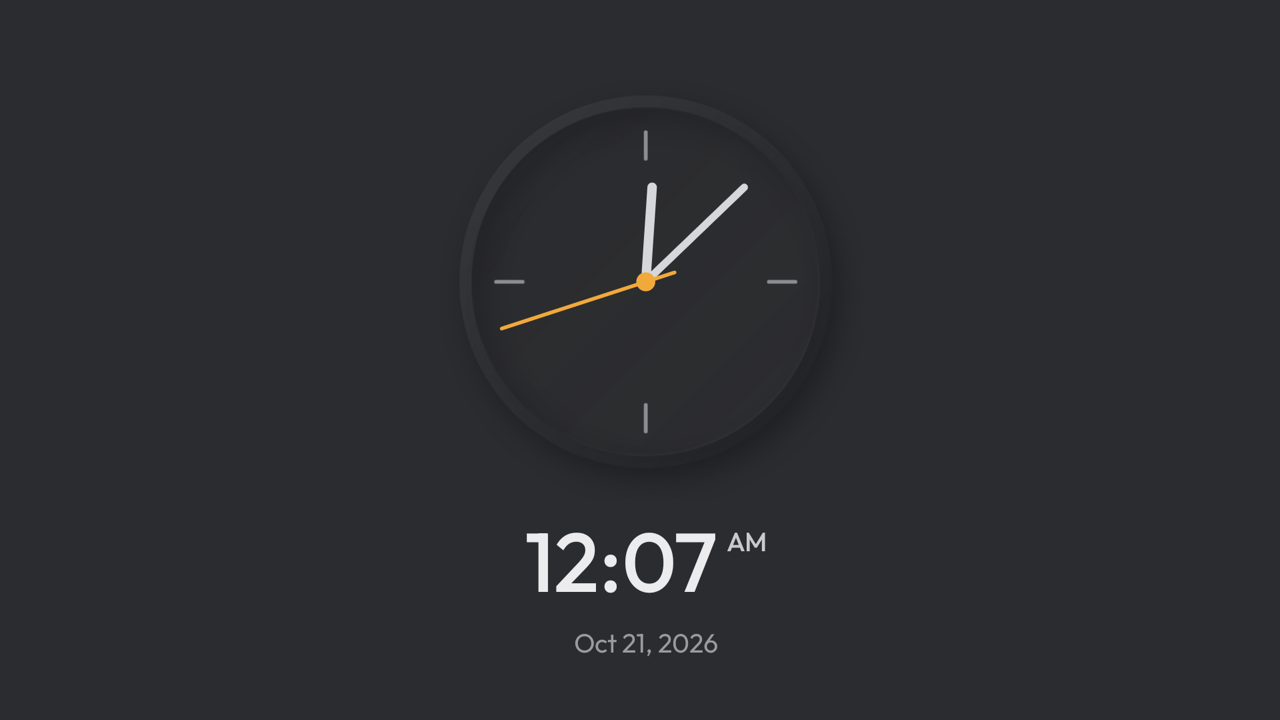
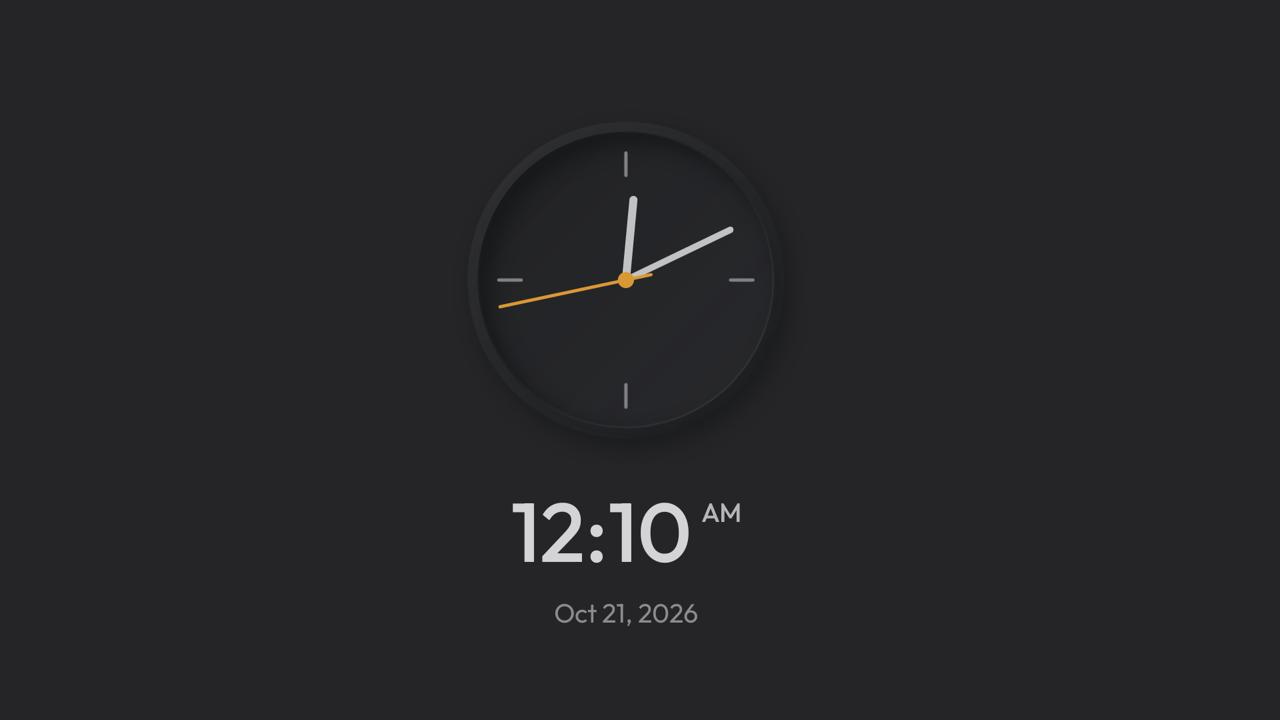
Clock screensaver: a smaller, darker dial with the face pressed in fully
The dial is 15% smaller, keeping its gap to the time. The face's recess
is back to full strength, and every colour is a little darker: the
background and dial by 15%, the marks, hands and text by 10%.

diff --git a/launcher/app/src/main/java/com/gathin/tvhome/ClockFace.java b/launcher/app/src/main/java/com/gathin/tvhome/ClockFace.java
@@ -25,7 +25,7 @@ import java.util.Calendar;
 final class ClockFace extends View {
 
     private static final float RIM = 98.4f, FACE = 92f;
-    private static final int HAND = 0xFFD6D7DA, SECOND = 0xFFF2A93B, TICK = 0xFF8E8F94;
+    private static final int HAND = 0xFFC1C2C4, SECOND = 0xFFDA9835, TICK = 0xFF808185;
 
     private final Paint hands = new Paint(Paint.ANTI_ALIAS_FLAG);
     private final Paint bitmapPaint = new Paint(Paint.FILTER_BITMAP_FLAG);
@@ -71,6 +71,11 @@ final class ClockFace extends View {
     }
 
     /** Sizes the clock so its rim is {@code rimRadius} pixels across from the centre. */
+    /** The room left around the rim for its shadow, in pixels. */
+    float shadowRoom() {
+        return pad;
+    }
+
     void setRimRadius(float rimRadius) {
         unit = rimRadius / RIM;
         pad = 16f * unit;
@@ -142,17 +147,17 @@ final class ClockFace extends View {
         Paint p = new Paint(Paint.ANTI_ALIAS_FLAG);
 
         // A soft shadow under the rim, a little down and to the right.
-        p.setColor(0xCC1C1D20);
+        p.setColor(0xCC18191B);
         p.setMaskFilter(new BlurMaskFilter(12f * unit, BlurMaskFilter.Blur.NORMAL));
         canvas.drawCircle(c + 4f * unit, c + 6f * unit, rim, p);
         p.setMaskFilter(null);
 
         // The rim stands out: lit at the top left, shaded at the bottom right.
-        p.setShader(diagonal(c, rim, 0xFF3C3D41, 0xFF2E2F32, 0xFF1F2023));
+        p.setShader(diagonal(c, rim, 0xFF333437, 0xFF27282A, 0xFF1A1B1E));
         canvas.drawCircle(c, c, rim, p);
 
-        // The face is pressed in: the other way round, and gently.
-        p.setShader(diagonal(c, face, 0xFF28292C, 0xFF2C2D30, 0xFF2F3033));
+        // The face is pressed in: lit the other way round.
+        p.setShader(diagonal(c, face, 0xFF1E1F21, 0xFF252629, 0xFF2B2C30));
         canvas.drawCircle(c, c, face, p);
         p.setShader(null);
 
@@ -163,7 +168,7 @@ final class ClockFace extends View {
         canvas.clipPath(clip);
         p.setStyle(Paint.Style.STROKE);
         p.setStrokeWidth(14f * unit);
-        p.setColor(0x59141517);
+        p.setColor(0xB3111214);
         p.setMaskFilter(new BlurMaskFilter(10f * unit, BlurMaskFilter.Blur.NORMAL));
         canvas.drawCircle(c + 6f * unit, c + 6f * unit, 98f * unit, p);
         p.setMaskFilter(null);
@@ -171,7 +176,7 @@ final class ClockFace extends View {
 
         // And catches the light along its bottom right edge.
         p.setStrokeWidth(1.2f * unit);
-        p.setShader(diagonal(c, face, 0xFF222325, 0xFF2B2C2F, 0xFF393A3E));
+        p.setShader(diagonal(c, face, 0xFF141517, 0xFF252528, 0xFF3C3D41));
         canvas.drawCircle(c, c, face - 0.5f * unit, p);
         p.setShader(null);
 

diff --git a/launcher/app/src/main/java/com/gathin/tvhome/ClockDream.java b/launcher/app/src/main/java/com/gathin/tvhome/ClockDream.java
@@ -71,7 +71,7 @@ public class ClockDream extends DreamService {
     /** Lays the clock out for a screen {@code height} pixels tall. */
     private void size(int height) {
         float u = height / SCREEN_UNITS;
-        face.setRimRadius(98.4f * u);
+        face.setRimRadius(83.6f * u);
         TextView time = findViewById(R.id.dreamTime);
         TextView amPm = findViewById(R.id.dreamAmPm);
         TextView date = findViewById(R.id.dreamDate);
@@ -79,9 +79,9 @@ public class ClockDream extends DreamService {
         amPm.setTextSize(TypedValue.COMPLEX_UNIT_PX, 14f * u);
         date.setTextSize(TypedValue.COMPLEX_UNIT_PX, 14f * u);
 
-        // The tops of the digits sit 34 units under the rim; the dial's view holds 16 units of shadow.
+        // The tops of the digits sit 34 units under the rim, below the room the dial keeps for its shadow.
         LinearLayout.LayoutParams row = (LinearLayout.LayoutParams) findViewById(R.id.dreamTimeRow).getLayoutParams();
-        row.topMargin = Math.round(18f * u - capInset(time, "0"));
+        row.topMargin = Math.round(34f * u - face.shadowRoom() - capInset(time, "0"));
         // AM/PM's capitals start where the digits do.
         LinearLayout.LayoutParams ampm = (LinearLayout.LayoutParams) amPm.getLayoutParams();
         ampm.leftMargin = Math.round(5f * u);
